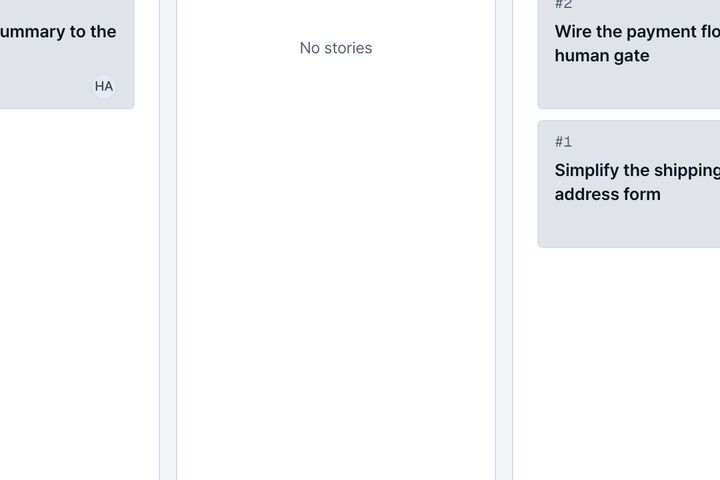
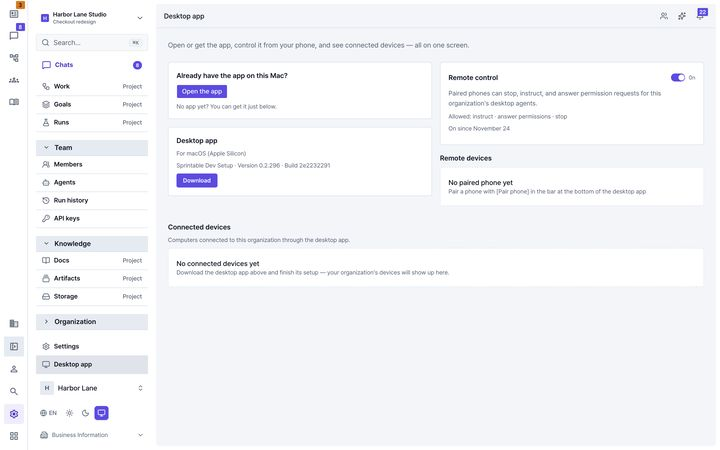
feat(landing): C-6 — fluid hero headline, Linux line v1.4, whole-screen picture in the first card, hero picture edge
The hero headline and lead follow the width (clamp): 2 lines at 1440, 3 at 390 (EN), 2 at 390 (KO). The Linux line is doc v1.4 (libfuse2t64 and libasound2t64). The first core card shows one whole screen. The hero pictures get a light edge and a deep shadow. FAQ rows two pixels tighter.

diff --git a/app/components/v2/page.css b/app/components/v2/page.css
@@ -172,3 +172,16 @@ main .hero--centred .hero__c .hero__lead { max-width: 80ch; }
 .v3-card-shot--policy { align-self: start; }
 /* the hero window takes what the longer headline leaves (the first screen holds, SR-1) */
 main .hero--centred .hero__window { min-height: clamp(220px, 30svh, 330px); }
+
+/* ── C-6 ── */
+/* 1 the headline and the lead follow the width (fluid, never below the phone floor); the words are fixed */
+main .hero--centred .hero__c h1 { font-size: clamp(28px, 1.8vw + 21px, 50px); line-height: 1.08; }
+main .hero--centred .hero__c .hero__lead { font-size: clamp(15px, .5vw + 13px, 18px); line-height: 1.45; }
+/* 3 every core picture shares one box; the first is a whole screen, shrunk */
+.v3-core__pic { aspect-ratio: 16 / 10; }
+@media (max-width: 639px) { .v3-core__pic { aspect-ratio: 16 / 10; } }
+/* 4 the hero picture separates from its frame (light and dark): a light edge and a deep shadow */
+.hero-comp__desk, .hero-comp__phone { border-color: rgb(255 255 255 / .55); box-shadow: 0 0 0 1px rgb(0 0 0 / .35), 0 28px 60px -18px rgb(0 0 0 / .7); }
+/* the questions: two pixels back inside the section */
+.v3-faq .faq__item { padding-block: 5px; }
+.v3-faq details > p { margin-top: 4px; }
